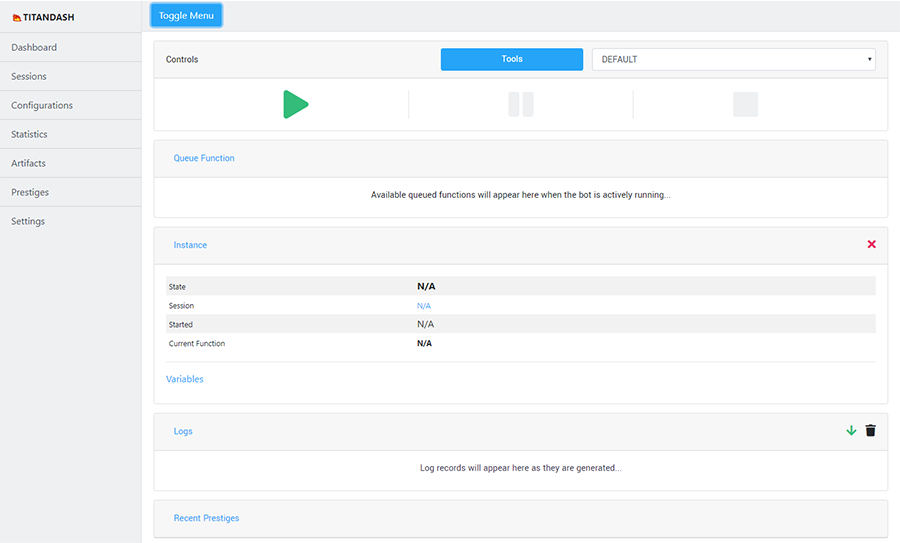
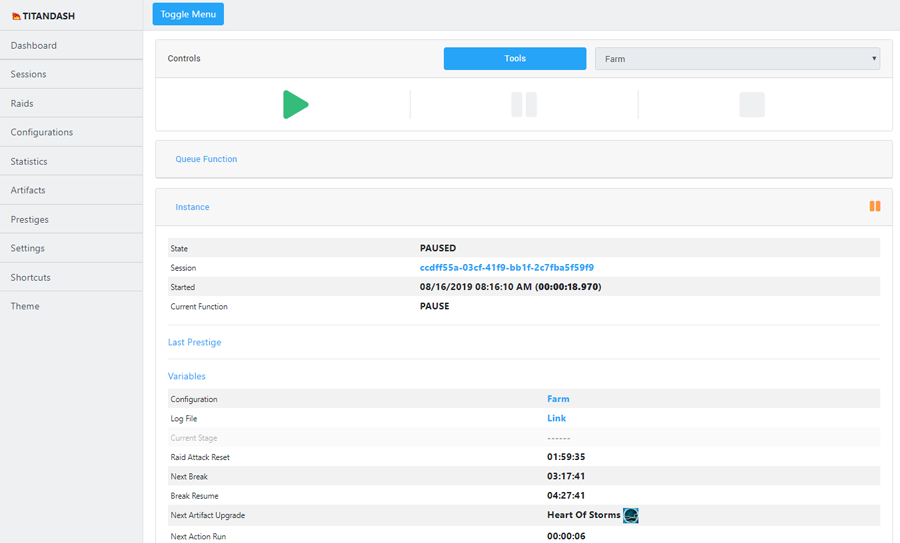
#128 Update readme to reflect newest version.
- New dashboard image available

diff --git a/README.md b/README.md
@@ -1,10 +1,13 @@
-# TitanDash [![star this repo](http://githubbadges.com/star.svg?user=becurrie&repo=titandash&style=flat)](https://github.com/becurrie/titandash) [![fork this repo](http://githubbadges.com/fork.svg?user=becurrie&repo=titandash&style=flat)](https://github.com/becurrie/titandash/fork)
+# Titandash [![star this repo](http://githubbadges.com/star.svg?user=becurrie&repo=titandash&style=flat)](https://github.com/becurrie/titandash) [![fork this repo](http://githubbadges.com/fork.svg?user=becurrie&repo=titandash&style=flat)](https://github.com/becurrie/titandash/fork)
 
 ![BOS](https://github.com/becurrie/titandash/blob/master/titanbot/titandash/bot/data/images/artifacts/book_of_shadows.png) ![SOTV](https://github.com/becurrie/titandash/blob/master/titanbot/titandash/bot/data/images/artifacts/stone_of_the_valrunes.png) ![FOTS](https://github.com/becurrie/titandash/blob/master/titanbot/titandash/bot/data/images/artifacts/flute_of_the_soloist.png) ![HOS](https://github.com/becurrie/titandash/blob/master/titanbot/titandash/bot/data/images/artifacts/heart_of_storms.png) ![ROC](https://github.com/becurrie/titandash/blob/master/titanbot/titandash/bot/data/images/artifacts/ring_of_calisto.png) ![IG](https://github.com/becurrie/titandash/blob/master/titanbot/titandash/bot/data/images/artifacts/invaders_gjalarhorn.png) ![BOH](https://github.com/becurrie/titandash/blob/master/titanbot/titandash/bot/data/images/artifacts/boots_of_hermes.png)
 
 **Automate TapTitans2 using a web application built in Django.**
 
 ![dashboard](https://github.com/becurrie/titandash/blob/master/img/dashboard.png)
+
+## Getting Started
+Take a look at the [wiki](https://github.com/becurrie/titandash/wiki) for information about setting up and configuring the dependencies and requirements needed to start the dashboard and initiate a new bot instance.
 
 ## Features
 ### Dashboard
@@ -18,6 +21,7 @@
 - Review all current statistics taken from the game, as well as statistics related to the bot.
 - View all prestiges and review additional information (average stage, average duration).
 - View all artifact statistics and whether or not you currently own each one.
+- Choose different themes for the dashboard (including dark theme).
 
 ### Bot
 - Activate chosen in game skills on a specified cooldown, with the option to wait for a specific skill before activating others.
@@ -25,6 +29,8 @@
 - Automatically level up the sword master, skills and heroes in game with a specific intensity (clicks).
 - Automatically prestige after a threshold has been reached (stage, percent of max stage, max stage, time limit).
 - Automatically parse out clan raid results from in game.
+- Automatically take breaks in game after random intervals of game time.
+- Receive text notifications when your raid attacks timer has reset and the titan can be attacked.
 - Upgrade or ignore specific artifacts or tiers after a prestige.
 - Participate in tournaments when they are available (enter/collect rewards).
 - Hatch and collect any eggs when they become available.
@@ -38,9 +44,6 @@
 - [Tesseract-OCR](https://github.com/tesseract-ocr/tesseract)
 - [Redis Server](https://redislabs.com/)
 - [Nox Android Emulator](https://www.bignox.com/)
-
-## Setup
-Take a look at the [wiki](https://github.com/becurrie/titandash/wiki) for information about setting up and configurating the dependencies and requirements needed to start the dashboard and initiate a new bot instance.
 
 ## Development
 Thanks for taking the time to check out this project. If you have any suggestions, 
